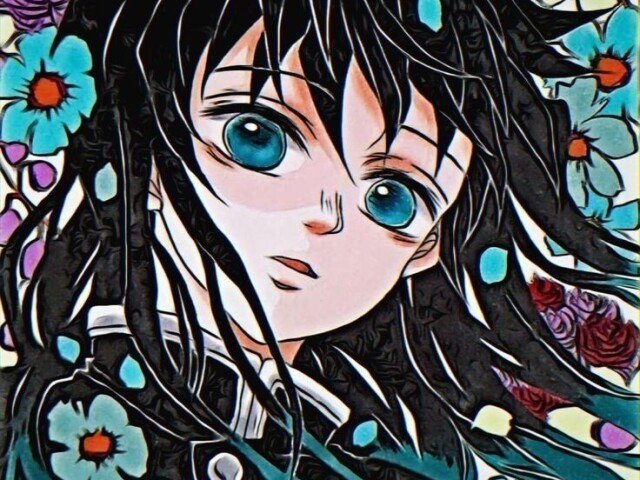
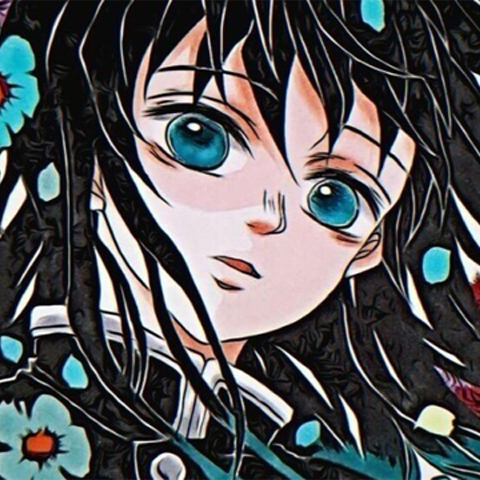
arrumando hero

diff --git a/style.css b/style.css
@@ -10,6 +10,7 @@ body {
     display:flex;
     justify-content: center;
     align-items: center;
+    flex-wrap: wrap;
 
     text-align: left;
     color: white;
@@ -23,6 +24,7 @@ body {
 
 .hero .hero-inner {
     border: 5px solid red;
+    margin: auto;
 }
 
 .hero h1 {
@@ -31,13 +33,15 @@ body {
     margin-bottom: 0.5em;
     /* margin-right: 1em; */
 }
+.imagem{
+    display:flex;
+    justify-content: center;
+    align-items: center;
 
-.hero img {
+    margin: auto;
+}
+.imagem img{
+    width: 300px;
     border: 5px solid red;
     border-radius: 50%;
 }
-
-.hero .imagem img{
-    height: ;
-}
-
